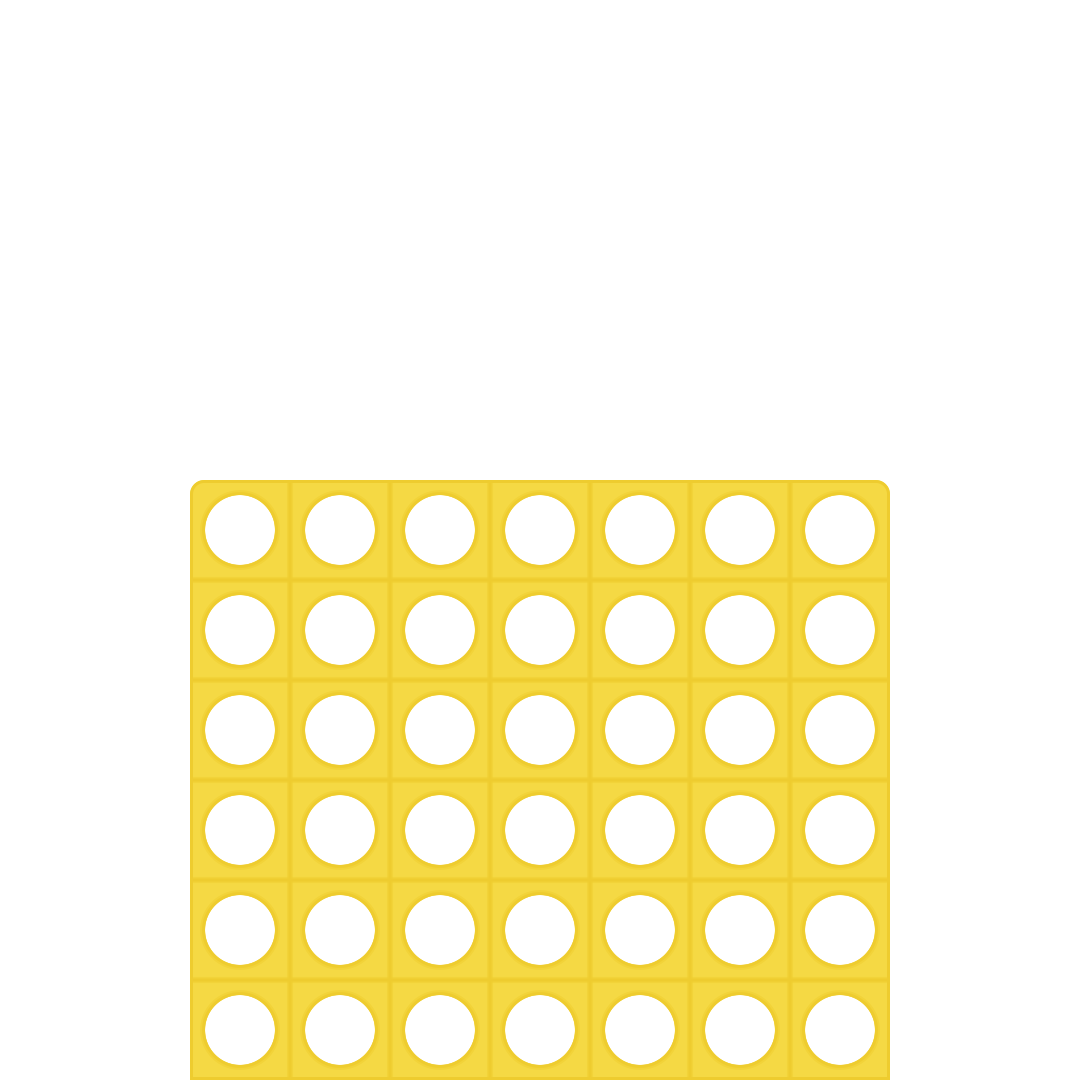
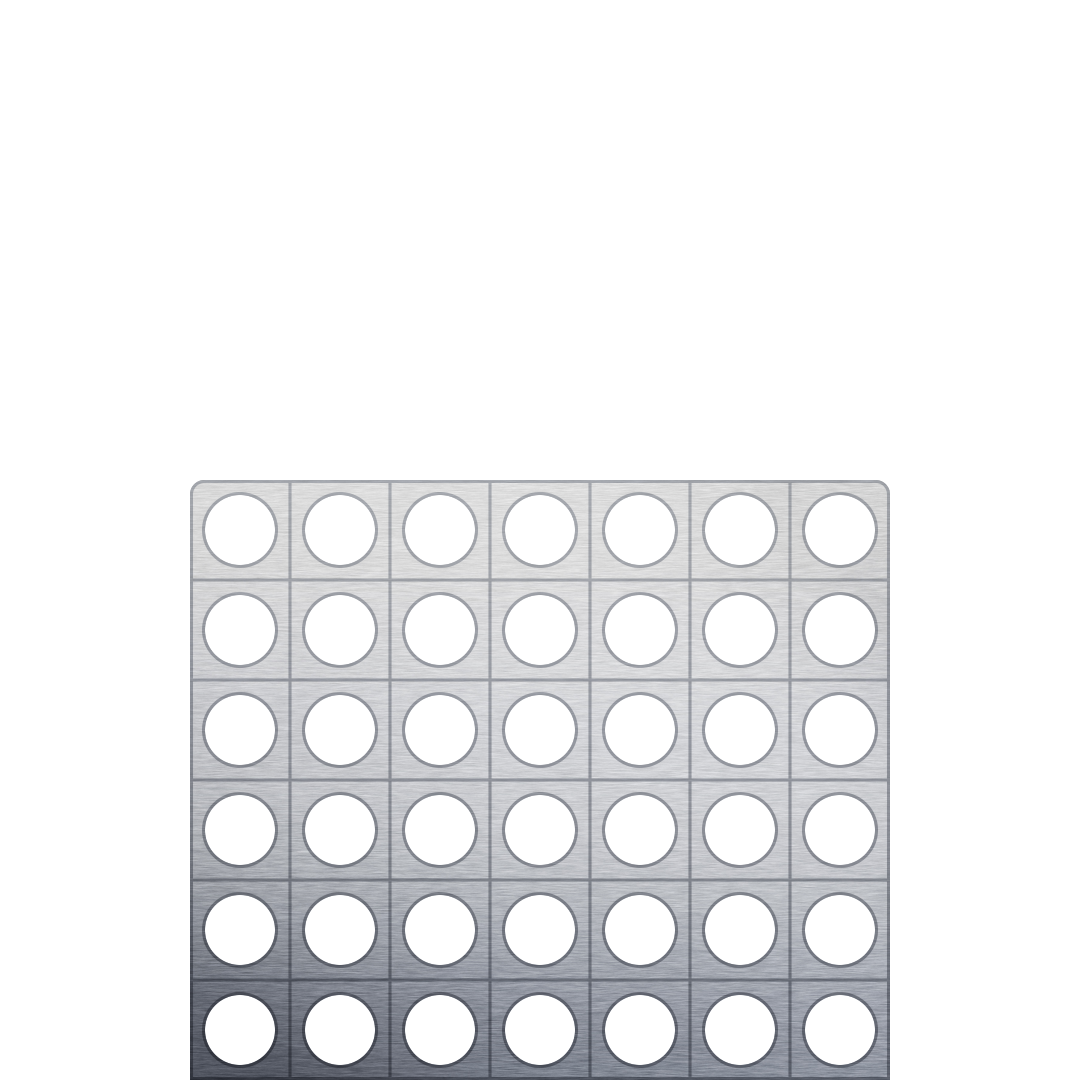
agregado el png para las fichas

Changed region(s): [[0.1528, 0.4278, 0.825, 1.0]]

diff --git a/TP2/index.html b/TP2/index.html
@@ -8,20 +8,13 @@
         name="viewport" content="width=device-width, initial-scale=1, shrink-to-fit=no">
         <!-- Bootstrap CSS -->
         <link rel="stylesheet" href="https://stackpath.bootstrapcdn.com/bootstrap/4.5.2/css/bootstrap.min.css" integrity="sha384-JcKb8q3iqJ61gNV9KGb8thSsNjpSL0n8PARn9HuZOnIxN0hoP+VmmDGMN5t9UJ0Z" crossorigin="anonymous">
-        <link rel="icon" type="image/png" href="images/favicon2.png"/>
+        <link rel="stylesheet" href="css/style.css">
+        <link rel="icon" type="image/png" href="images/favicon.png"/>
         <title>TPE2 Giancarlo Cristiano</title>
-        <style>
-            .cursor {
-                cursor: pointer;
-                object-position: 20%;
-            }
-        </style>
     </head>
 
     <body class="bg-dark">
         <div class="container">
-
-
             <ul class="nav justify-content-center p-3 navbar-dark">
                 <li class="nav-item">
                     <a class="navbar-brand" href="#">Trabajo Práctico Entregable 2</a>
@@ -46,16 +39,16 @@
                   <input type="text" name="nombre" class="form-control" id="nombre-j1" placeholder="Ingrese Nombre">
                   <label for="inputState" class="text-light"></label>
                   <select value="" id="color-j1" class="form-control" name="valor-color">
-                    <option selected disabled value ="rgba(230, 0, 0, 0.52)">Color</option>
-                    <option class="text-light bg-danger" value="#DC3545">Rojo</option>
-                    <option class="text-light" value="#FF99CC" style="background-color: #FF99CC">Rosa</option>
-                    <option class="text-light" value="#9900CC" style="background-color:#9900CC">Violeta</option>
-                    <option class="text-light" value="#003399" style="background-color: #003399">Azul</option>
-                    <option class="text-light bg-info" value="#17A2B8">Turquesa</option>
-                    <option class="text-light bg-success" value="#28A745">Verde</option>
-                    <option class="text-light bg-warning" value="#FFC107">Amarillo</option>
-                    <option class="text-light" value="#FF6600" style="background-color:#FF6600">Naranja</option>
-                    <option class="text-light bg-dark" value="#343A40">Negro</option>
+                    <option selected disabled value ="#DC3545">Color</option>
+                    <option class="text-danger" value="#DC3545">Rojo</option>
+                    <option value="#FF99CC" style="color: #FF99CC">Rosa</option>
+                    <option value="#9900CC" style="color:#9900CC">Violeta</option>
+                    <option value="#003399" style="color: #003399">Azul</option>
+                    <option class="text-info" value="#17A2B8">Turquesa</option>
+                    <option class="text-success" value="#28A745">Verde</option>
+                    <option class="text-warning" value="#FFC107">Amarillo</option>
+                    <option value="#FF6600" style="color:#FF6600">Naranja</option>
+                    <option value="#343A40">Negro</option>
                     </select>
                 </div>
                 <div class="form-group">
@@ -63,16 +56,16 @@
                   <input type="text" name="nombre" class="form-control" id="nombre-j2" placeholder="Ingrese Nombre">
                   <label for="inputState" class="text-light"></label>
                   <select value="" id="color-j2" class="form-control" name="valor-color">
-                    <option selected disabled value ="rgba(37, 10, 158, 0.78)">Color</option>
-                    <option class="text-light bg-danger" value="#DC3545">Rojo</option>
-                    <option class="text-light" value="#FF99CC" style="background-color: #FF99CC">Rosa</option>
-                    <option class="text-light" value="#9900CC" style="background-color:#9900CC">Violeta</option>
-                    <option class="text-light" value="#003399" style="background-color: #003399">Azul</option>
-                    <option class="text-light bg-info" value="#17A2B8">Turquesa</option>
-                    <option class="text-light bg-success" value="#28A745">Verde</option>
-                    <option class="text-light bg-warning" value="#FFC107">Amarillo</option>
-                    <option class="text-light" value="#FF6600" style="background-color:#FF6600">Naranja</option>
-                    <option class="text-light bg-dark" value="#343A40">Negro</option>               
+                    <option selected disabled value ="#003399">Color</option>
+                    <option class="text-danger" value="#DC3545">Rojo</option>
+                    <option value="#FF99CC" style="color: #FF99CC">Rosa</option>
+                    <option value="#9900CC" style="color:#9900CC">Violeta</option>
+                    <option value="#003399" style="color: #003399">Azul</option>
+                    <option class="text-info" value="#17A2B8">Turquesa</option>
+                    <option class="text-success" value="#28A745">Verde</option>
+                    <option class="text-warning" value="#FFC107">Amarillo</option>
+                    <option value="#FF6600" style="color:#FF6600">Naranja</option>
+                    <option value="#343A40">Negro</option>        
                    </select>
                 </div>
                 <div id="error" class="alert alert-danger" role="alert" hidden>Error: los jugadores no pueden compartir nombre y/o color.</div>

diff --git a/TP2/js/ficha.js b/TP2/js/ficha.js
@@ -45,12 +45,13 @@ class Ficha{
 
 
     draw(){
+        let imgX = this.posX - 35;
+        let imgY = this.posY - 35;
         this.context.beginPath();
         this.context.fillStyle = this.color;
-        //this.context.fillStyle = this.context.createPattern(this.img, "repeat");
         this.context.arc(this.posX, this.posY, this.radius, 0, Math.PI * 2);
         this.context.fill();
-        this.context.drawImage(this.img, this.posX, this.posY);
+        this.context.drawImage(this.img, imgX, imgY);
         this.context.closePath();
     }
 

diff --git a/TP2/js/main.js b/TP2/js/main.js
@@ -71,9 +71,11 @@ function addFicha(color, iX, iY) {
     let posY = iY;
     let img = new Image();
     img.src = "images/ficha.png";
-    let ficha = new Ficha(posX, posY, color, context, 35, img);
-   //fichas.push(ficha);
-    ficha.draw();
+    img.onload = function () {
+        let ficha = new Ficha(posX, posY, color, context, 35, img);
+        ficha.draw();
+    }
+      //fichas.push(ficha);
 }
 
 
